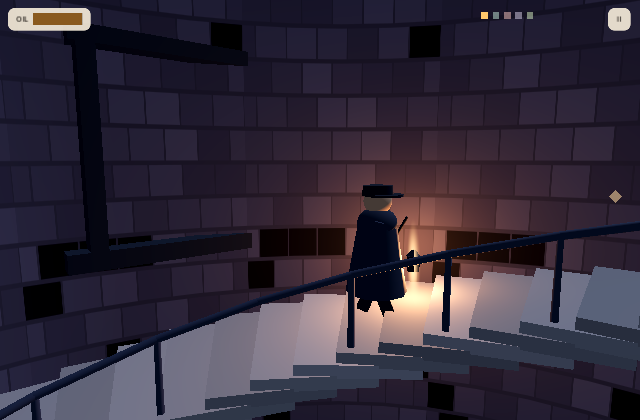
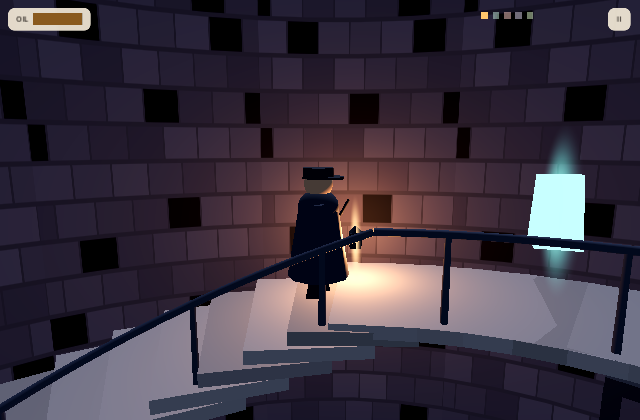
Cycle 8: flat stone landing at the gallery vista window

diff --git a/index.html b/index.html
@@ -97,7 +97,7 @@ body {
 
 		<script src="index.js"></script>
 		<script>
-const GODOT_CONFIG = {"args":[],"canvasResizePolicy":2,"ensureCrossOriginIsolationHeaders":true,"executable":"index","experimentalVK":false,"fileSizes":{"index.pck":73552,"index.wasm":35376909},"focusCanvas":true,"gdextensionLibs":[]};
+const GODOT_CONFIG = {"args":[],"canvasResizePolicy":2,"ensureCrossOriginIsolationHeaders":true,"executable":"index","experimentalVK":false,"fileSizes":{"index.pck":73648,"index.wasm":35376909},"focusCanvas":true,"gdextensionLibs":[]};
 const GODOT_THREADS_ENABLED = false;
 const engine = new Engine(GODOT_CONFIG);
 

diff --git a/CYCLES.md b/CYCLES.md
@@ -99,3 +99,13 @@ build_audio, played at -6dB, no new assets. Pickup trace now logs the chime name
 Verification: verify3 full loop WON ok; trace shows chime1..chime5 fired in order at panes 1-5.
 Audio itself not headless-verifiable; design follows the soft/low synthesized bar (sine bodies,
 fast-decaying partials, no noise bursts).
+
+## Cycle 8 - 2026-09-23 ~18:10 IST - PASS
+Built: the window landing. The climbing segment 4.0-7.2 is split into climb / flat / climb with a
+level stone landing at th 5.65-6.35 (y 6.175) right at the gallery vista window. Steps, railings,
+and keeper physics all derive from SURF, so one data change produced geometry + walkable physics.
+The keeper now crosses the window without rising - a natural rest point where the camera gaze
+blend (cycle 6) holds the moonlit vista framed. Closes the cycle-5 known gap ("placing a landing").
+Verified: eyeballed landing frames zb20/zb21 (flat platform reads, railing follows, keeper level);
+verify3 full loop WON ok with chime ladder intact; pause chip still works (pixel check in vp2 run).
+pck 73,648 bytes, clean.
